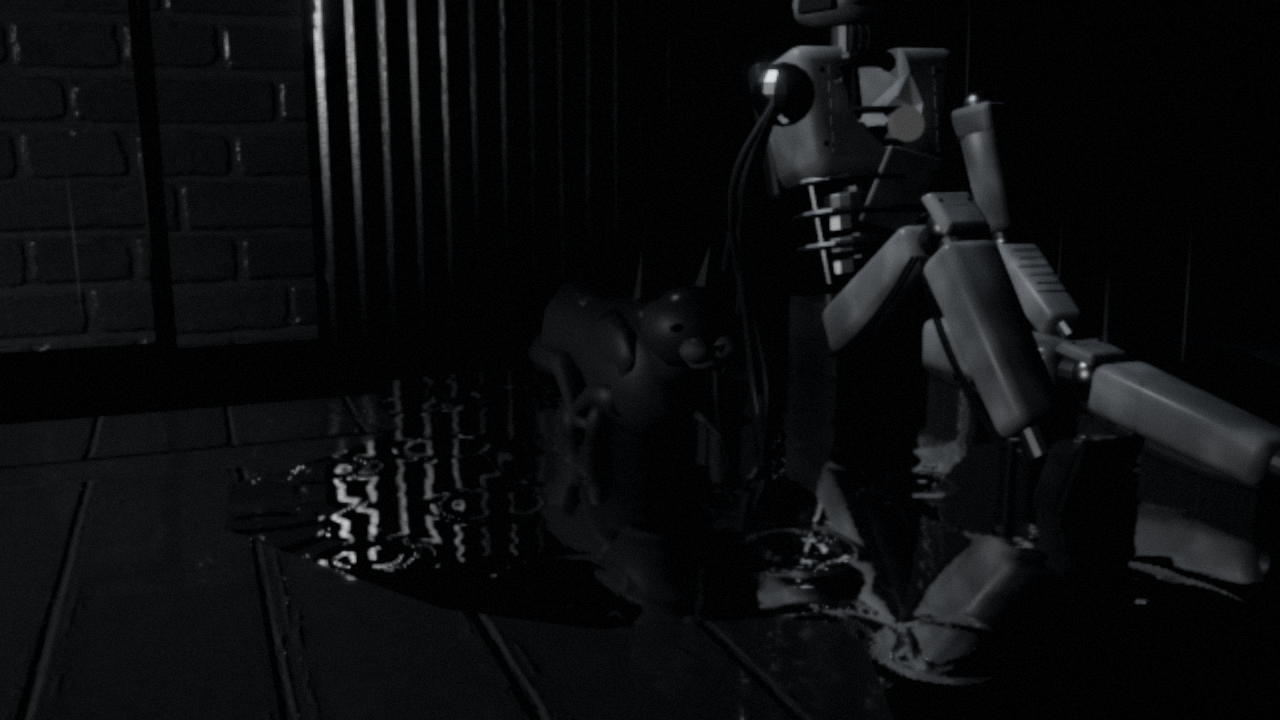
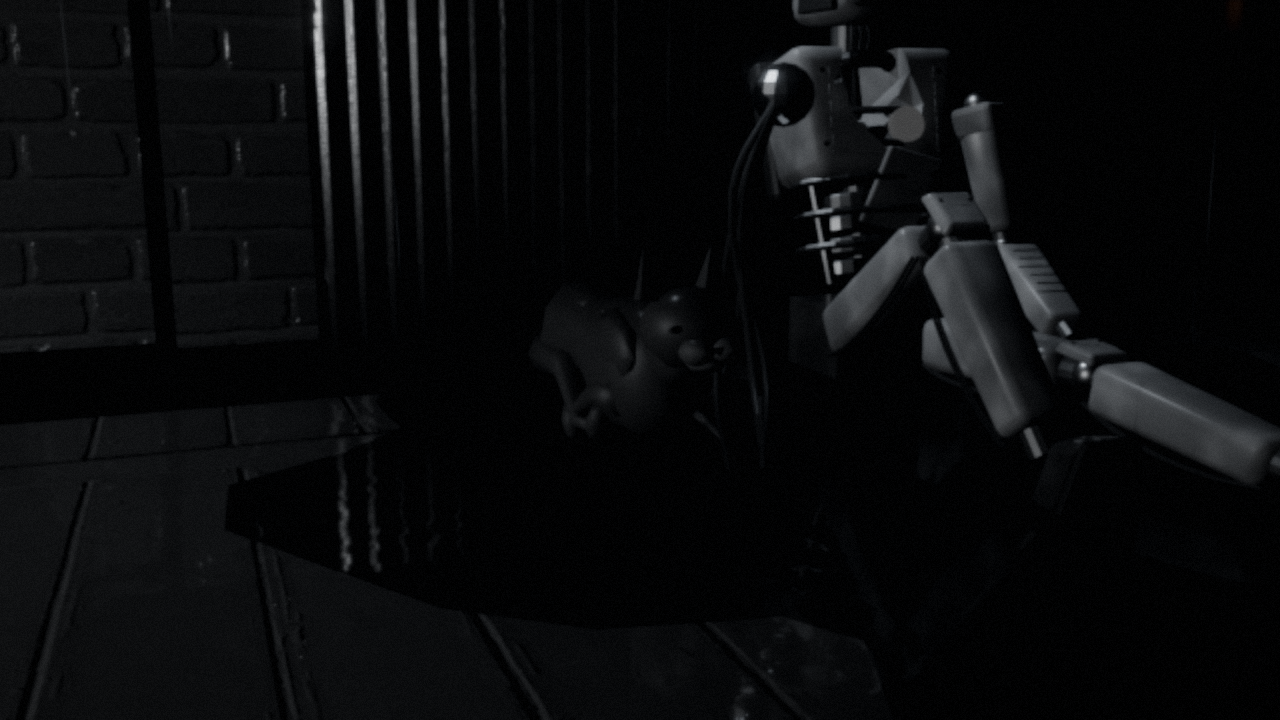
Grok final: faint child outline cropped by the jamb, shorter level mark, dimmer memory people and windows, rougher puddle

diff --git a/src/systems/robot/index.js b/src/systems/robot/index.js
@@ -17,9 +17,10 @@ function makePuddle() {
     pos.setXY(i, pos.getX(i) * r, pos.getY(i) * r);
   }
   g.rotateX(-Math.PI / 2);
-  const m = new THREE.MeshStandardNodeMaterial({ roughness: 0.03, metalness: 0 });
-  m.colorNode = vec3(0.008);
-  const rip = rippleNormal(positionWorld.xz).mul(wetUniforms.rain);
+  // not a mirror: some roughness and gentle ripples, so the reflection stays darker than the cat beside it
+  const m = new THREE.MeshStandardNodeMaterial({ roughness: 0.3, metalness: 0 });
+  m.colorNode = vec3(0.012);
+  const rip = rippleNormal(positionWorld.xz).mul(wetUniforms.rain).mul(0.25);
   m.normalNode = transformNormalToView(normalize(vec3(rip.x, float(1), rip.y)));
   const mesh = new THREE.Mesh(g, m);
   mesh.receiveShadow = true;
@@ -61,10 +62,9 @@ function makeGobo() {
       // a faint fill around the mark so the jamb reads
       g.fillStyle = 'rgba(255,255,255,0.07)'; g.beginPath(); g.ellipse(0, 0, 60, 50, 0, 0, 7); g.fill();
       // a short level mark, only as wide as the jamb and its pencil lines
-      const lg = g.createLinearGradient(-26, 0, 26, 0);
+      const lg = g.createLinearGradient(-12, 0, 12, 0);
       lg.addColorStop(0, 'rgba(255,255,255,0)'); lg.addColorStop(0.25, '#fff'); lg.addColorStop(0.75, '#fff'); lg.addColorStop(1, 'rgba(255,255,255,0)');
-      g.fillStyle = lg; g.fillRect(-26, -2, 52, 4);
-      g.fillStyle = 'rgba(255,255,255,0.12)'; g.fillRect(-20, 5, 40, 2);
+      g.fillStyle = lg; g.fillRect(-12, -1.5, 24, 3);
       tex.needsUpdate = true;
       return;
     }

diff --git a/src/story/fragment.js b/src/story/fragment.js
@@ -47,7 +47,7 @@ function rimMaterial(extraMask) {
   m.colorNode = vec3(0);
   const rim = pow(float(1).sub(abs(dot(normalView, positionViewDirection))), 6.0);
   const mask = memoryMask(positionWorld).mul(extraMask);
-  m.emissiveNode = amberNode().mul(rim.mul(2.4)).mul(mask); // a thin outline only: the body stays black
+  m.emissiveNode = amberNode().mul(rim.mul(1.1)).mul(mask); // a faint thin outline (as dim as the pencil marks)
   m.maskNode = mask.greaterThan(0.08);
   return m;
 }
@@ -119,7 +119,8 @@ export default {
       this.child = childFigure(childMat); this.childBaseH = 0.98;
     }
     // back against the marked jamb, facing the street
-    this.child.position.set(x - 0.05, FLOOR, z - hw + 0.16);
+    // inside the doorway, tight to the marked jamb: the frame crops the near half of the body
+    this.child.position.set(x + 0.04, FLOOR, z - hw + 0.07);
     this.child.rotation.y = -Math.PI / 2; // glTF front (+Z) -> faces the street (-X)
     g.add(this.child);
     // now: '已验收。此户已腾空。' pasted on the door, and the house number in chalk; neither exists in the memory

diff --git a/src/systems/street/index.js b/src/systems/street/index.js
@@ -42,7 +42,7 @@ export default {
     };
     // the past, inside the eye's cone: lit windows, lit shops (amber only)
     const mask = memoryMask();
-    M.glass.emissiveNode = amberNode().mul(mask).mul(ctx.params.get('noglow') !== null ? 1 : pastWindowGlow()).mul(0.7);
+    M.glass.emissiveNode = amberNode().mul(mask).mul(ctx.params.get('noglow') !== null ? 1 : pastWindowGlow()).mul(0.32); // well under the signs' brightness
     M.void.emissiveNode = amberNode().mul(mask).mul(0.9);
     M.brickSeal = makeSurface('brick_4', { scale: 1.4, tone: 0.75, metal: 0, streaks: 0.4 });
     M.brickSeal.maskNode = mask.lessThan(0.45); // dissolves (with the cone's grain) inside the memory

diff --git a/src/systems/ghosts/index.js b/src/systems/ghosts/index.js
@@ -102,7 +102,7 @@ function material() {
   m.lightsNode = lights([]);
   m.colorNode = vec3(0);
   const rim = pow(float(1).sub(abs(dot(normalView, positionViewDirection))), 5.0);
-  m.emissiveNode = amberNode().mul(rim.mul(2.2)).mul(mask).mul(scan); // dark silhouette, thin amber edge only
+  m.emissiveNode = amberNode().mul(rim.mul(1.0)).mul(mask).mul(scan); // dark silhouette, a faint amber edge only
   return m;
 }
 

diff --git a/src/story/micro.js b/src/story/micro.js
@@ -14,7 +14,7 @@ function rimMaterial(vis) {
   m.colorNode = vec3(0);
   const rim = pow(float(1).sub(abs(dot(normalView, positionViewDirection))), 5.0);
   const mask = memoryMask(positionWorld).mul(vis);
-  m.emissiveNode = amberNode().mul(rim.mul(2.2)).mul(mask);
+  m.emissiveNode = amberNode().mul(rim.mul(1.0)).mul(mask);
   m.maskNode = mask.greaterThan(0.08);
   return m;
 }

diff --git a/.agent-tasks/r6-final-visual/result.md b/.agent-tasks/r6-final-visual/result.md
@@ -1,0 +1,17 @@
+先看上一轮意见和这六张最新画面，只核对三件事有没有落地，再挑仍然出戏的地方。上一轮的三件事对得上。我把全程 16 帧和门、记忆、猫的关键区域裁开再看，避免把光斑和刻度看错。上一轮三件事：
+
+门：刻度落地了，空镜能读出单独亮起的「十一岁」，「小宁」和「五岁」已经分开；孩子没落地，仍是门洞正中的全身亮线，后脑还有一圈高光，头顶另悬一条横线，半个身子没有被门框挡住。
+
+闪电：落地了，这十六帧里街保持近黑，看不到街尽头那块灰矩形。
+
+记忆：没落地，靠边的人仍是半透明线框，屋顶那块纯白几何牌和纸白窗还在，光斑仍接近一整块圆。
+
+还出戏的三处：
+
+1. 门口的孩子。关掉轮廓发光，身体改成纯黑，边光收到和「十岁」那条一样暗；把人往门里挪，让左半边被门框裁掉；删掉悬在头顶的横线，只留「十一岁」右侧已有的那一小段。
+2. 照相馆前景的人。推车的和右边站着的改成不透明深色，自发光归零，只留一圈很弱的琥珀边；屋顶白牌和白窗的亮度压到招牌的四分之一以下。
+3. 猫脚下的水坑。倒影比猫更亮，白纹拧成一块镜子。把粗糙度调高，法线强度降到现在的四分之一，倒影只留砖墙的暗色。
+
+给作者：
+
+这是一段雨夜的短片。一台旧机器坐在暗处，看着一条几乎全黑的街，门框上刻着小宁从五岁到十一岁的身高，街边有一家亮着的光明照相。孩子在门口是一圈亮线，记忆里的人站在一块暖光里，结尾先黑下来，再留下「刻度停在十一岁」和「灯灭了，门还是那么高」。

diff --git a/docs/review-visual-grok-final.md b/docs/review-visual-grok-final.md
@@ -1,0 +1,17 @@
+先看上一轮意见和这六张最新画面，只核对三件事有没有落地，再挑仍然出戏的地方。上一轮的三件事对得上。我把全程 16 帧和门、记忆、猫的关键区域裁开再看，避免把光斑和刻度看错。上一轮三件事：
+
+门：刻度落地了，空镜能读出单独亮起的「十一岁」，「小宁」和「五岁」已经分开；孩子没落地，仍是门洞正中的全身亮线，后脑还有一圈高光，头顶另悬一条横线，半个身子没有被门框挡住。
+
+闪电：落地了，这十六帧里街保持近黑，看不到街尽头那块灰矩形。
+
+记忆：没落地，靠边的人仍是半透明线框，屋顶那块纯白几何牌和纸白窗还在，光斑仍接近一整块圆。
+
+还出戏的三处：
+
+1. 门口的孩子。关掉轮廓发光，身体改成纯黑，边光收到和「十岁」那条一样暗；把人往门里挪，让左半边被门框裁掉；删掉悬在头顶的横线，只留「十一岁」右侧已有的那一小段。
+2. 照相馆前景的人。推车的和右边站着的改成不透明深色，自发光归零，只留一圈很弱的琥珀边；屋顶白牌和白窗的亮度压到招牌的四分之一以下。
+3. 猫脚下的水坑。倒影比猫更亮，白纹拧成一块镜子。把粗糙度调高，法线强度降到现在的四分之一，倒影只留砖墙的暗色。
+
+给作者：
+
+这是一段雨夜的短片。一台旧机器坐在暗处，看着一条几乎全黑的街，门框上刻着小宁从五岁到十一岁的身高，街边有一家亮着的光明照相。孩子在门口是一圈亮线，记忆里的人站在一块暖光里，结尾先黑下来，再留下「刻度停在十一岁」和「灯灭了，门还是那么高」。

diff --git a/.agent-tasks/journal.md b/.agent-tasks/journal.md
@@ -53,3 +53,4 @@
 - 2026-10-16 13:03:52 | claude | 派给 codex：最终代码检查（r6-final-code，只读）
 - 2026-10-16 13:03:52 | claude | 派给 grok：最终画面检查（r6-final-visual，只读）
 - 2026-10-16 13:05:12 | codex | 完成：最终代码检查（r6-final-code）
+- 2026-10-16 13:09:19 | grok | 完成：最终画面检查（r6-final-visual）
